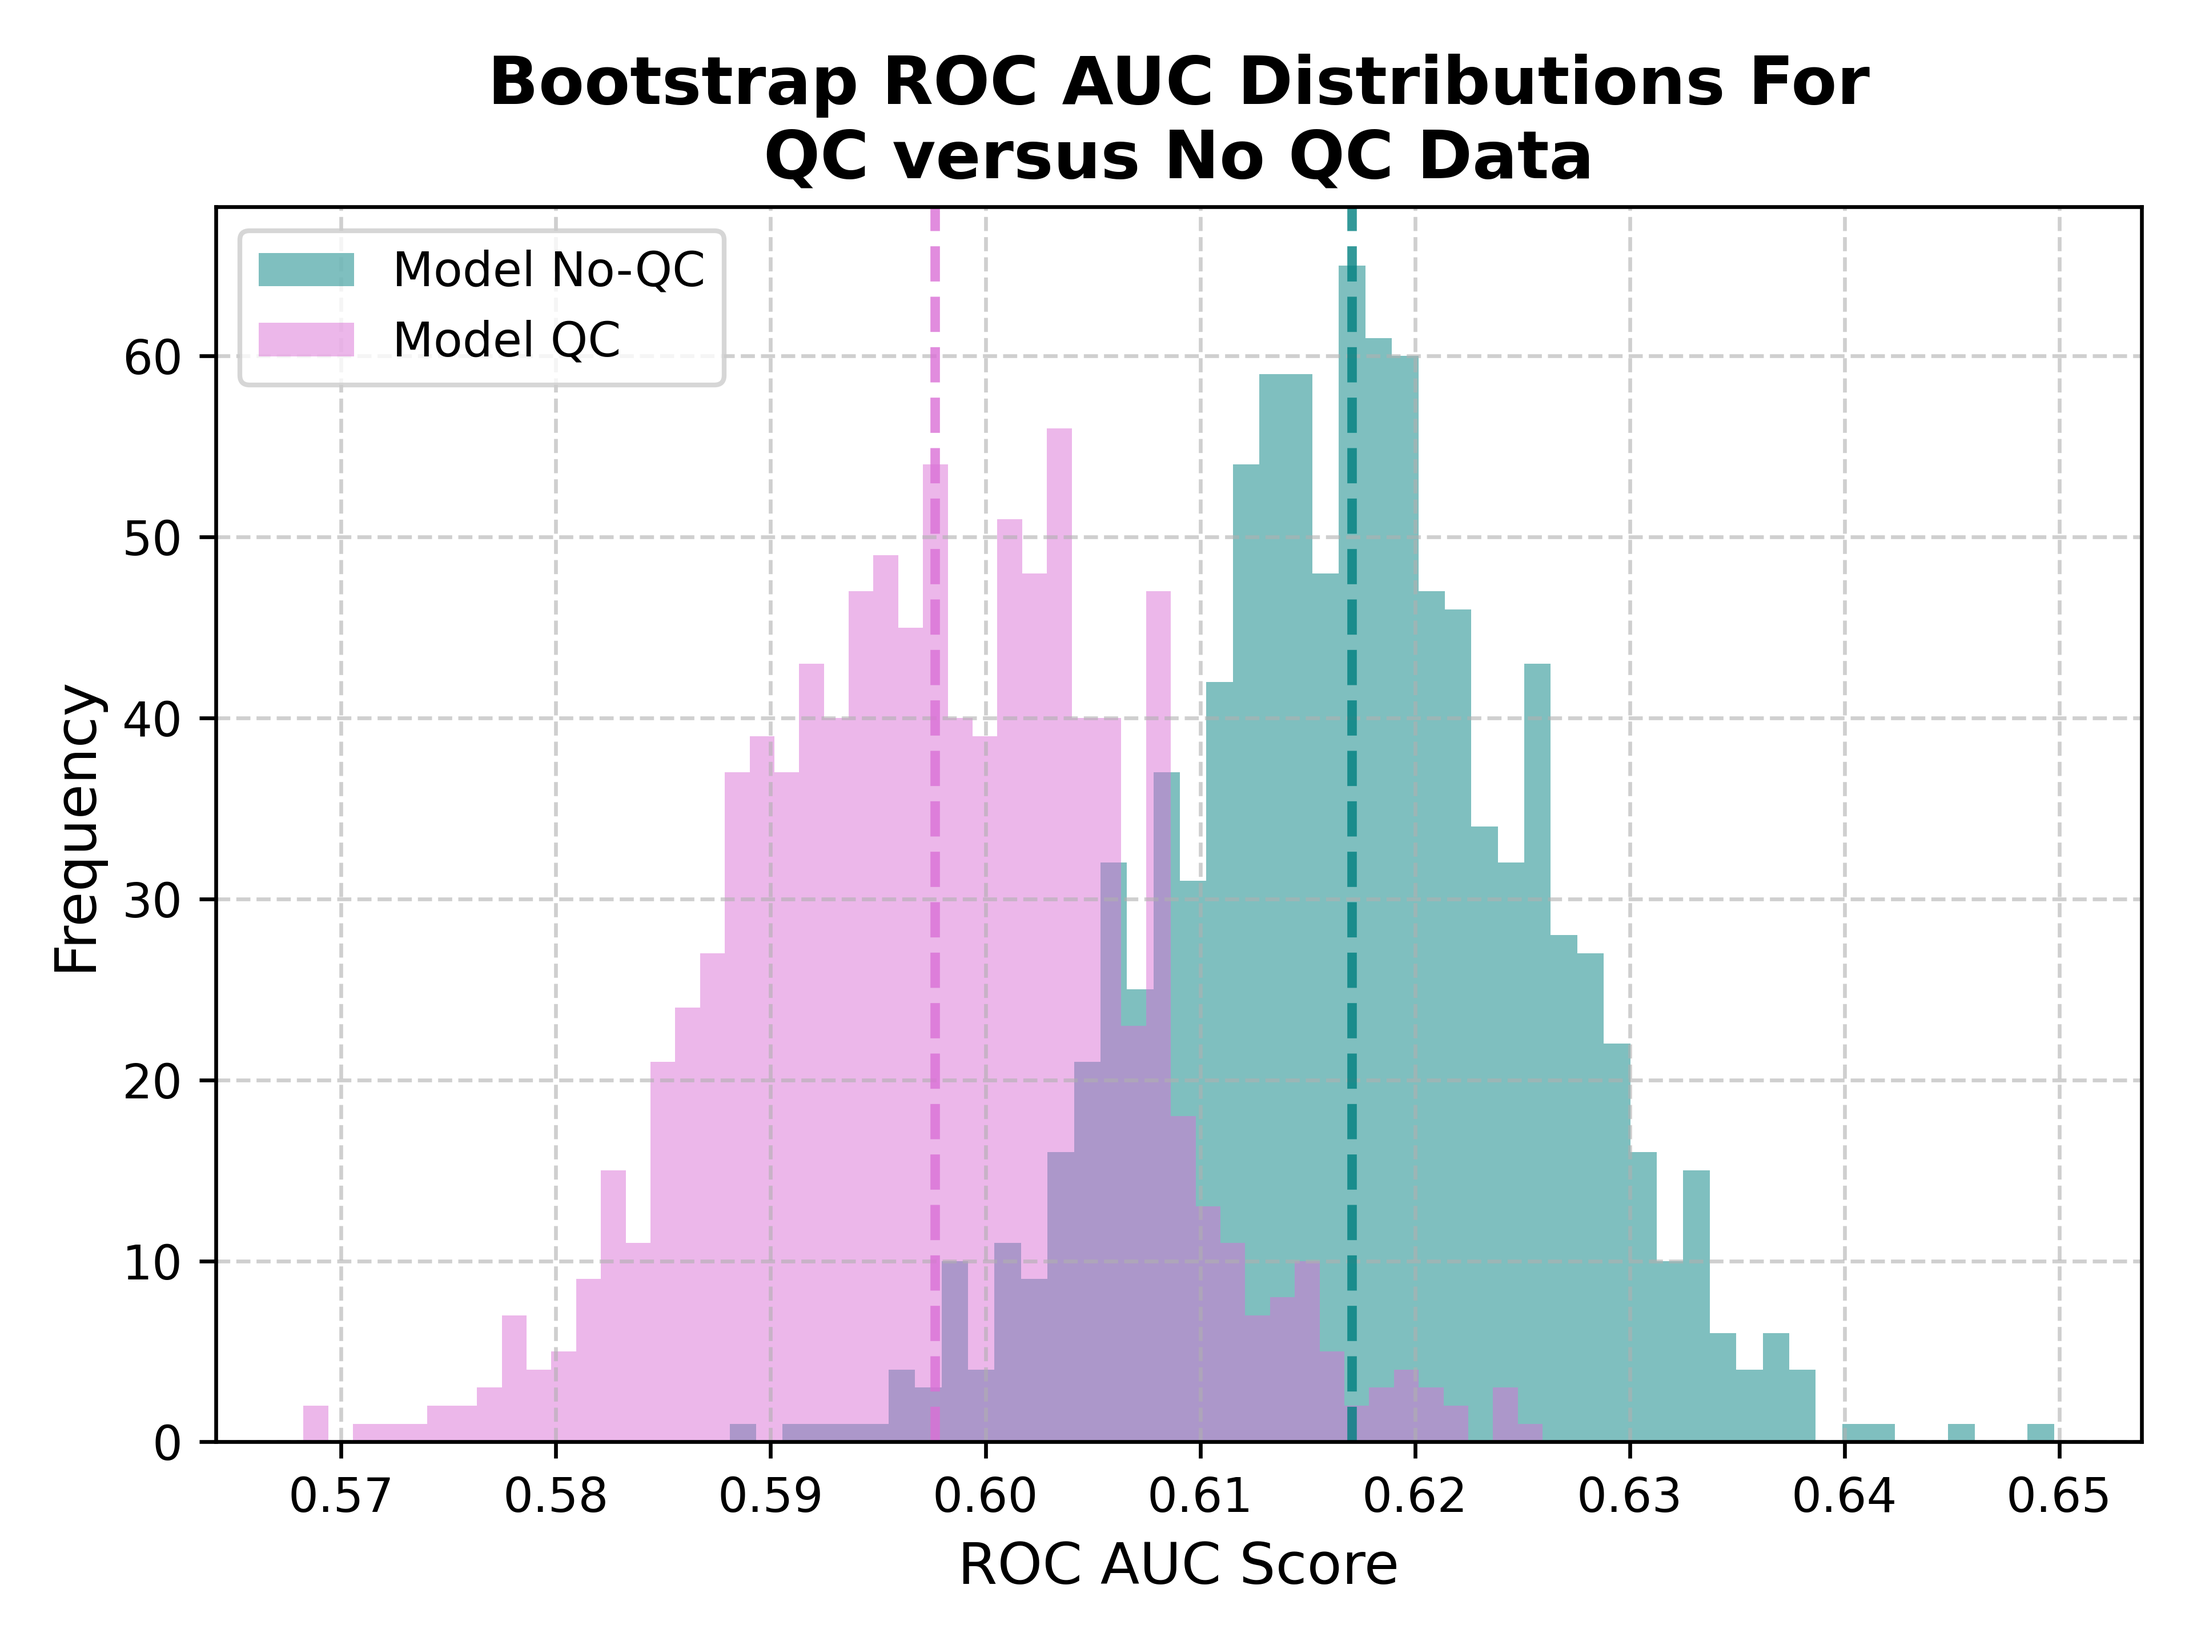
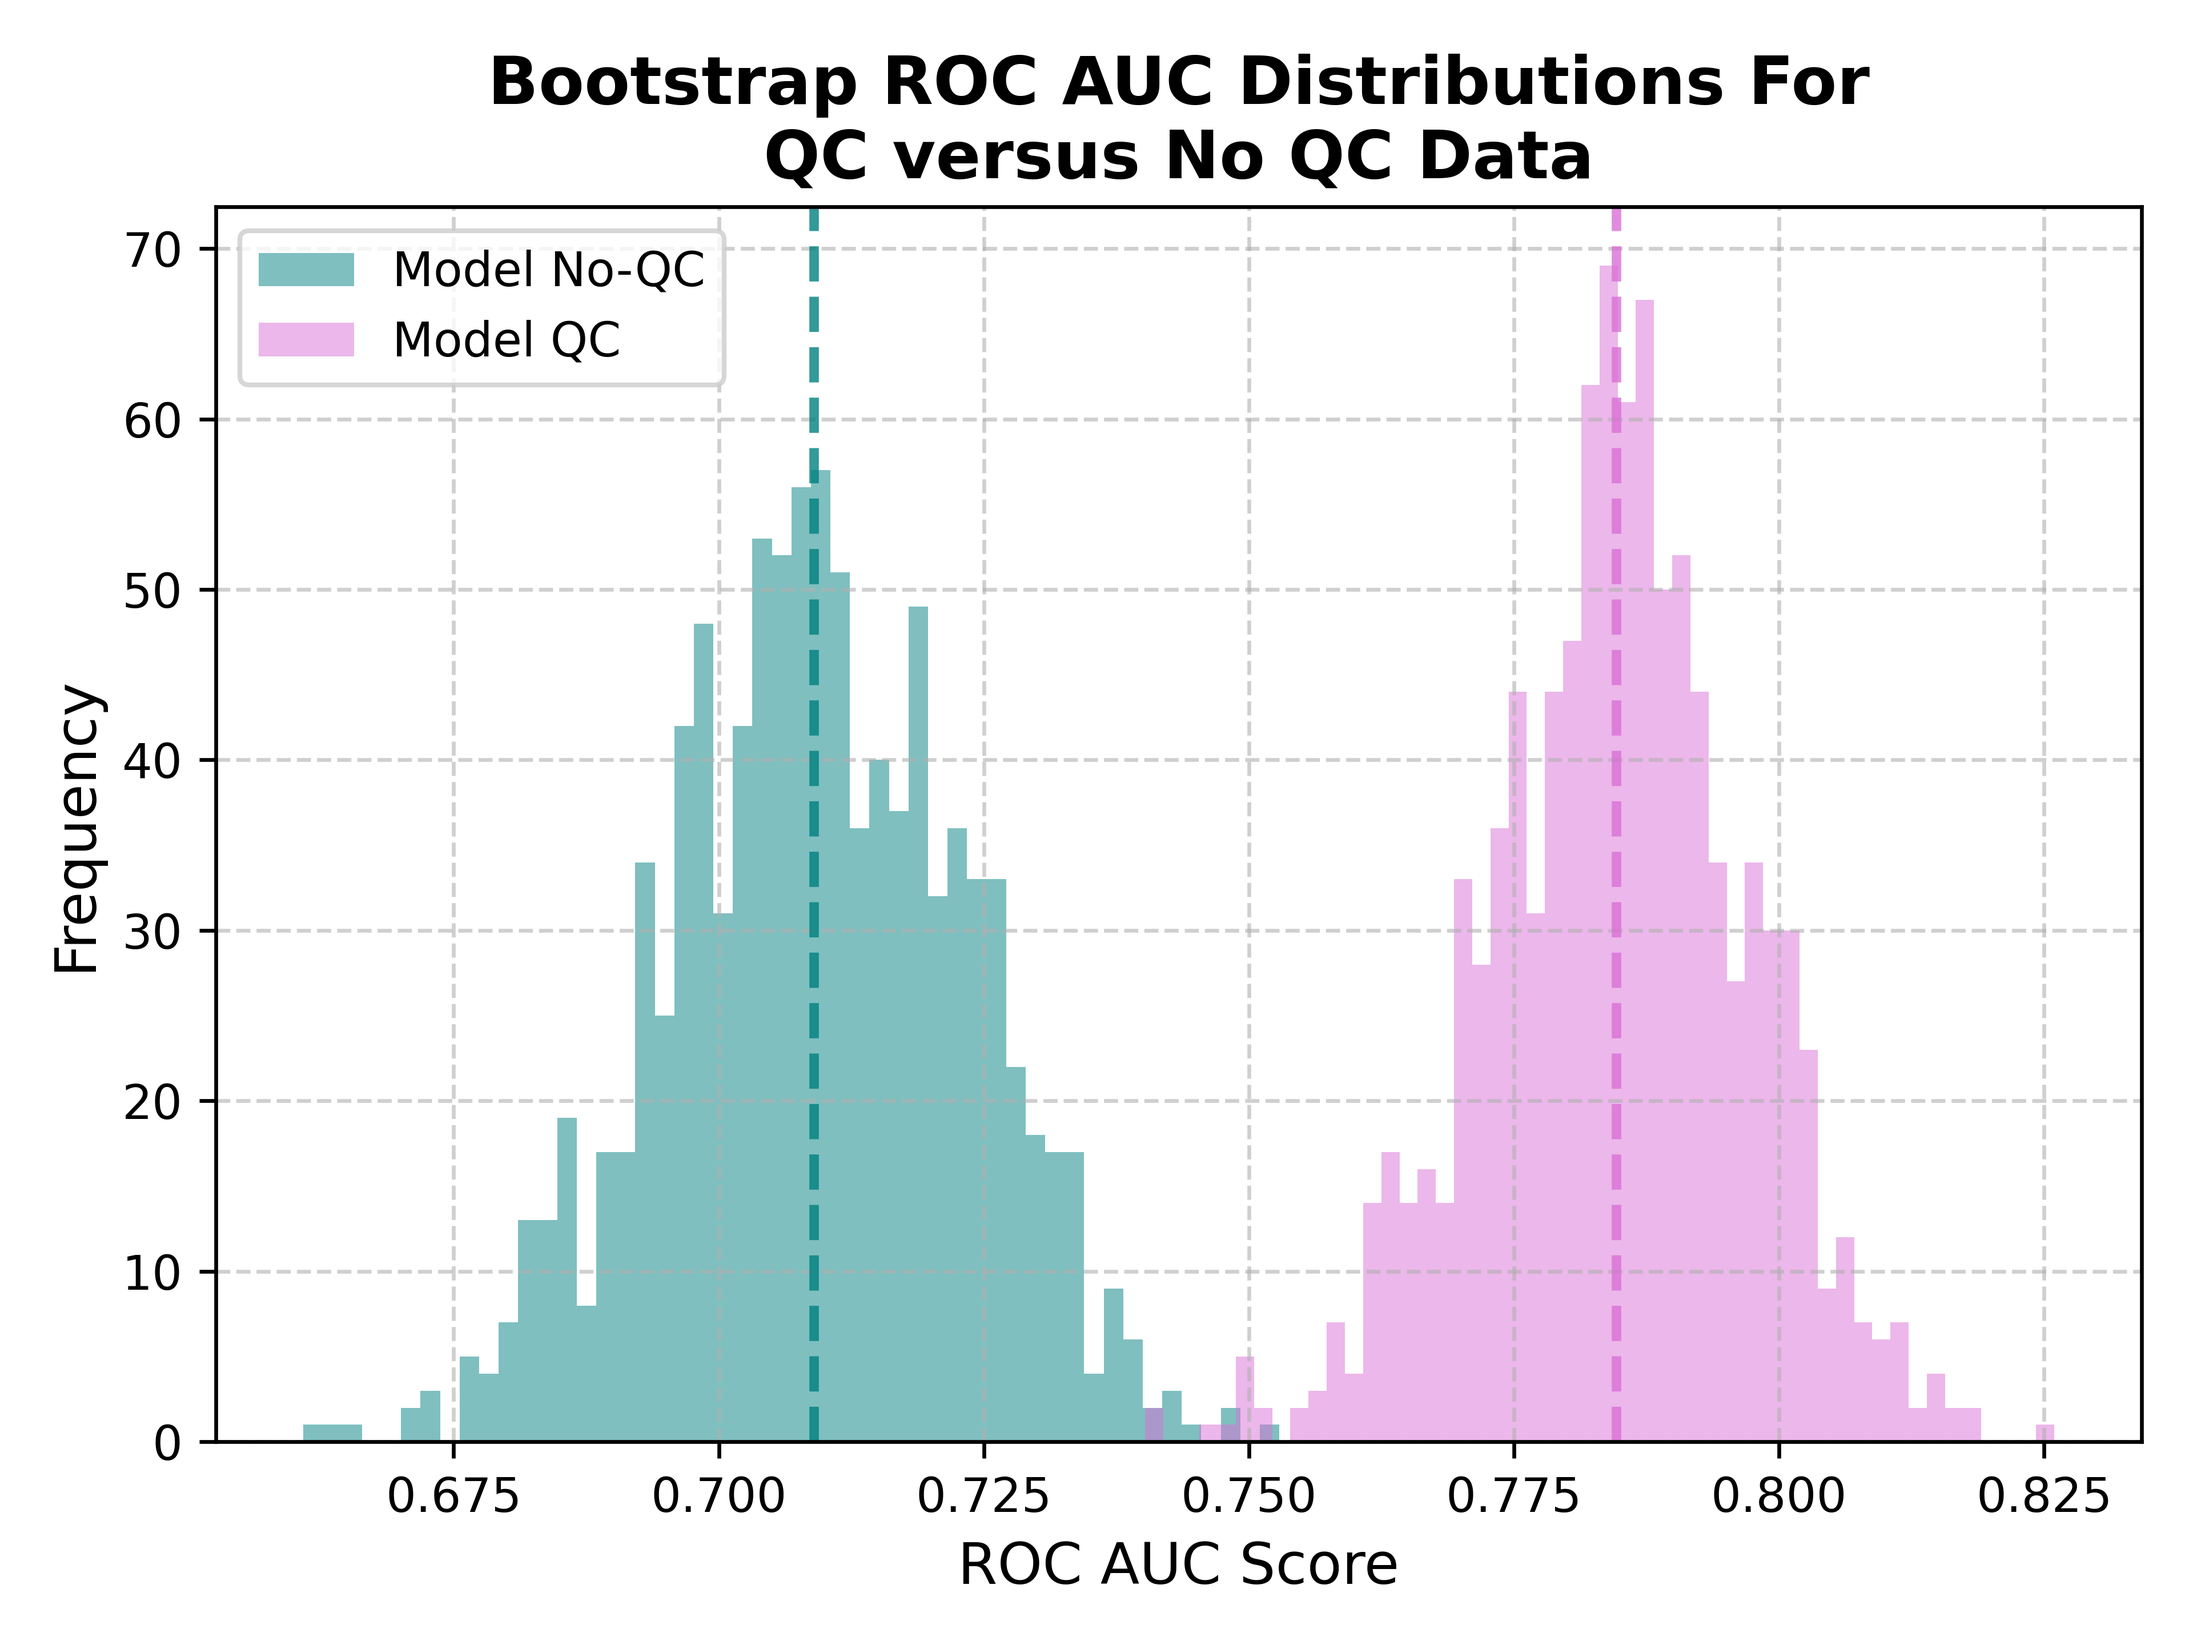
update roc auc analysis

diff --git a/3.assess_generalizability/nbconverted/roc_qc_importance_eval.py b/3.assess_generalizability/nbconverted/roc_qc_importance_eval.py
@@ -5,6 +5,7 @@
 # 
 # In this method, we have trained two models; one with QC'd data and the other without QC'd data (more noise). 
 # We apply the models to their respective holdout (`Plate_6`) dataset (e.g., QC'd model applied to QC'd data and no-QC model applied to no QC dataset).
+# We filter the Plate 6 dataset to only include the Null and WT cells from the iNFixion cell lines (Null C04 and WT A3), so we are directly comparing the models trained on that specific cell line.
 # We use bootstrapping, a method that repeatedly samples the dataset with replacement to create random subsets of the same size, where some cells might be duplicated or excluded, simulating variations in the population.
 # We calculate the ROC AUC for each subsample and plot as a histogram.
 # 
@@ -75,6 +76,9 @@ plate_6_no_QC = pd.read_parquet(
 # and would not contribute to the evaluation
 plate_6_no_QC = plate_6_no_QC[plate_6_no_QC["Metadata_genotype"] != "HET"]
 
+# Drop rows where Metadata_Institution is MGH
+plate_6_no_QC = plate_6_no_QC[plate_6_no_QC["Metadata_Institution"] != "MGH"]
+
 print(plate_6_no_QC.shape[0])
 
 # Drop rows with any NaNs prior to getting X and y data
@@ -114,7 +118,10 @@ plate_6_QC = pd.read_parquet(
 # and would not contribute to the evaluation
 plate_6_QC = plate_6_QC[plate_6_QC["Metadata_genotype"] != "HET"]
 
-print(plate_6_no_QC.shape[0])
+# Drop rows where Metadata_Institution is MGH
+plate_6_QC = plate_6_QC[plate_6_QC["Metadata_Institution"] != "MGH"]
+
+print(plate_6_QC.shape[0])
 
 # Drop rows with any NaNs prior to getting X and y data
 plate_6_QC = plate_6_QC.dropna()
